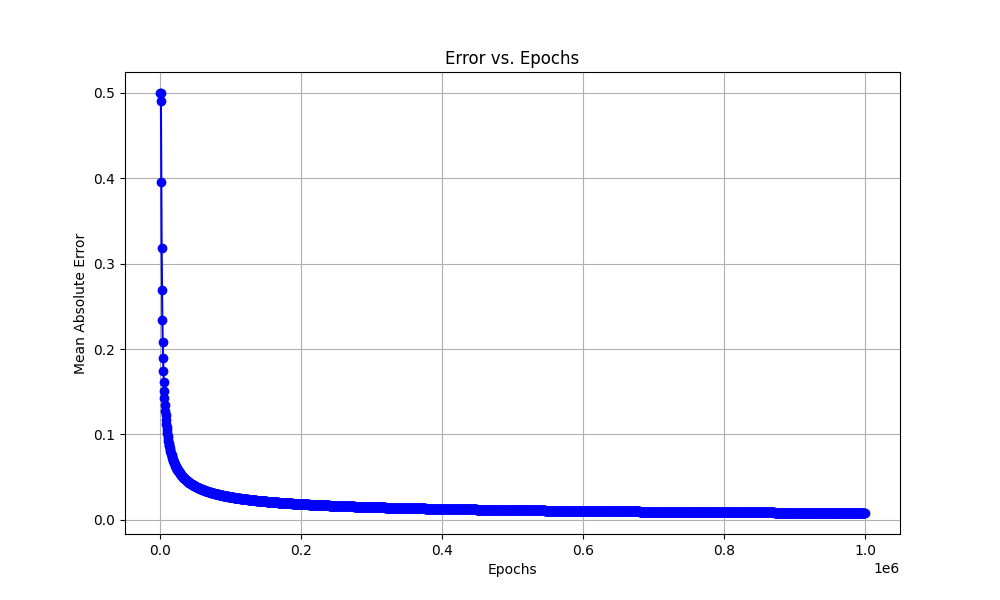
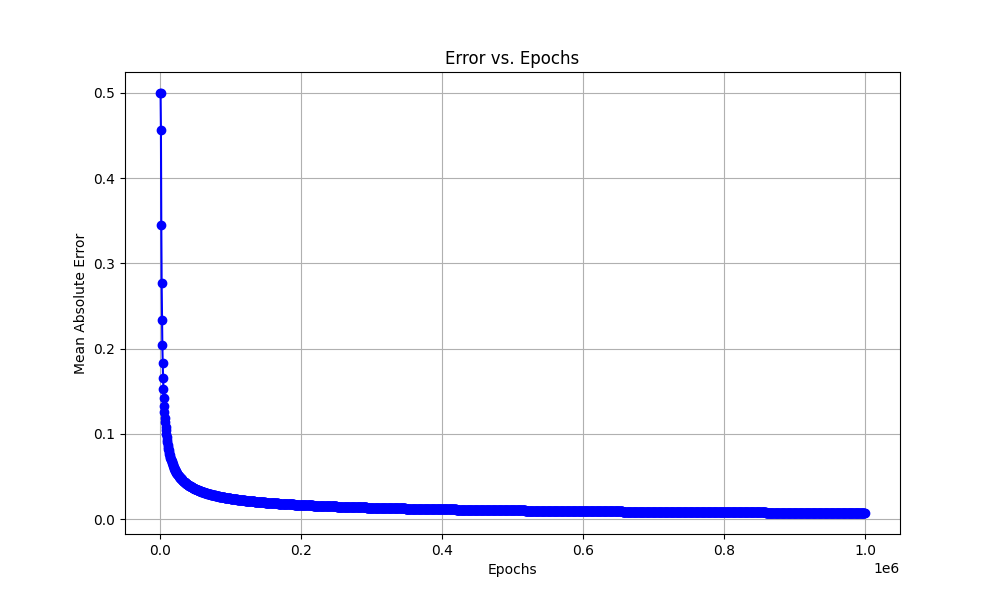
Fiddling with learning rate

diff --git a/xor.py b/xor.py
@@ -33,7 +33,7 @@ weights_input_hidden = np.random.uniform(size=(input_layer_neurons, hidden_layer
 weights_hidden_output = np.random.uniform(size=(hidden_layer_neurons, output_neurons))
 
 # Training parameters
-learning_rate = 0.5
+learning_rate = 0.6
 epochs = int(input("How many epochs? "))
 
 # Lists to store error values for plotting
